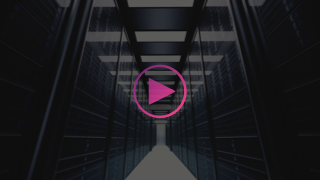
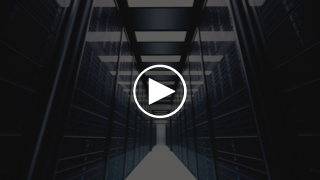
styling tweaks

Changed region(s): [[0.4062, 0.3611, 0.5938, 0.6389], [0.4688, 0.6389, 0.5312, 0.6667]]

diff --git a/src/sections/Welcome.js b/src/sections/Welcome.js
@@ -198,6 +198,7 @@ const StyledVideoThumbnail = styled.div`
     img {
       opacity: .9;
       transition: .2s ease-out;
+      border: .4rem solid #fff;
     }
 `;
 
@@ -209,7 +210,7 @@ const videoModalStyles = {
     right: 0,
     bottom: 0,
     zIndex: 20,
-    backgroundColor: `rgba(${colors.black}, .7)`
+    backgroundColor: `rgba(${colors.black}, .9)`
   },
   content: {
     padding: '0',
@@ -226,7 +227,7 @@ const videoModalStyles = {
     marginRight: '-50%',
     transform: 'translate(-50%, -50%)',
     backgroundColor: `rgb(${colors.black})`,
-    border: '.75rem solid #fff'
+    border: '0'
   }
 };
 
